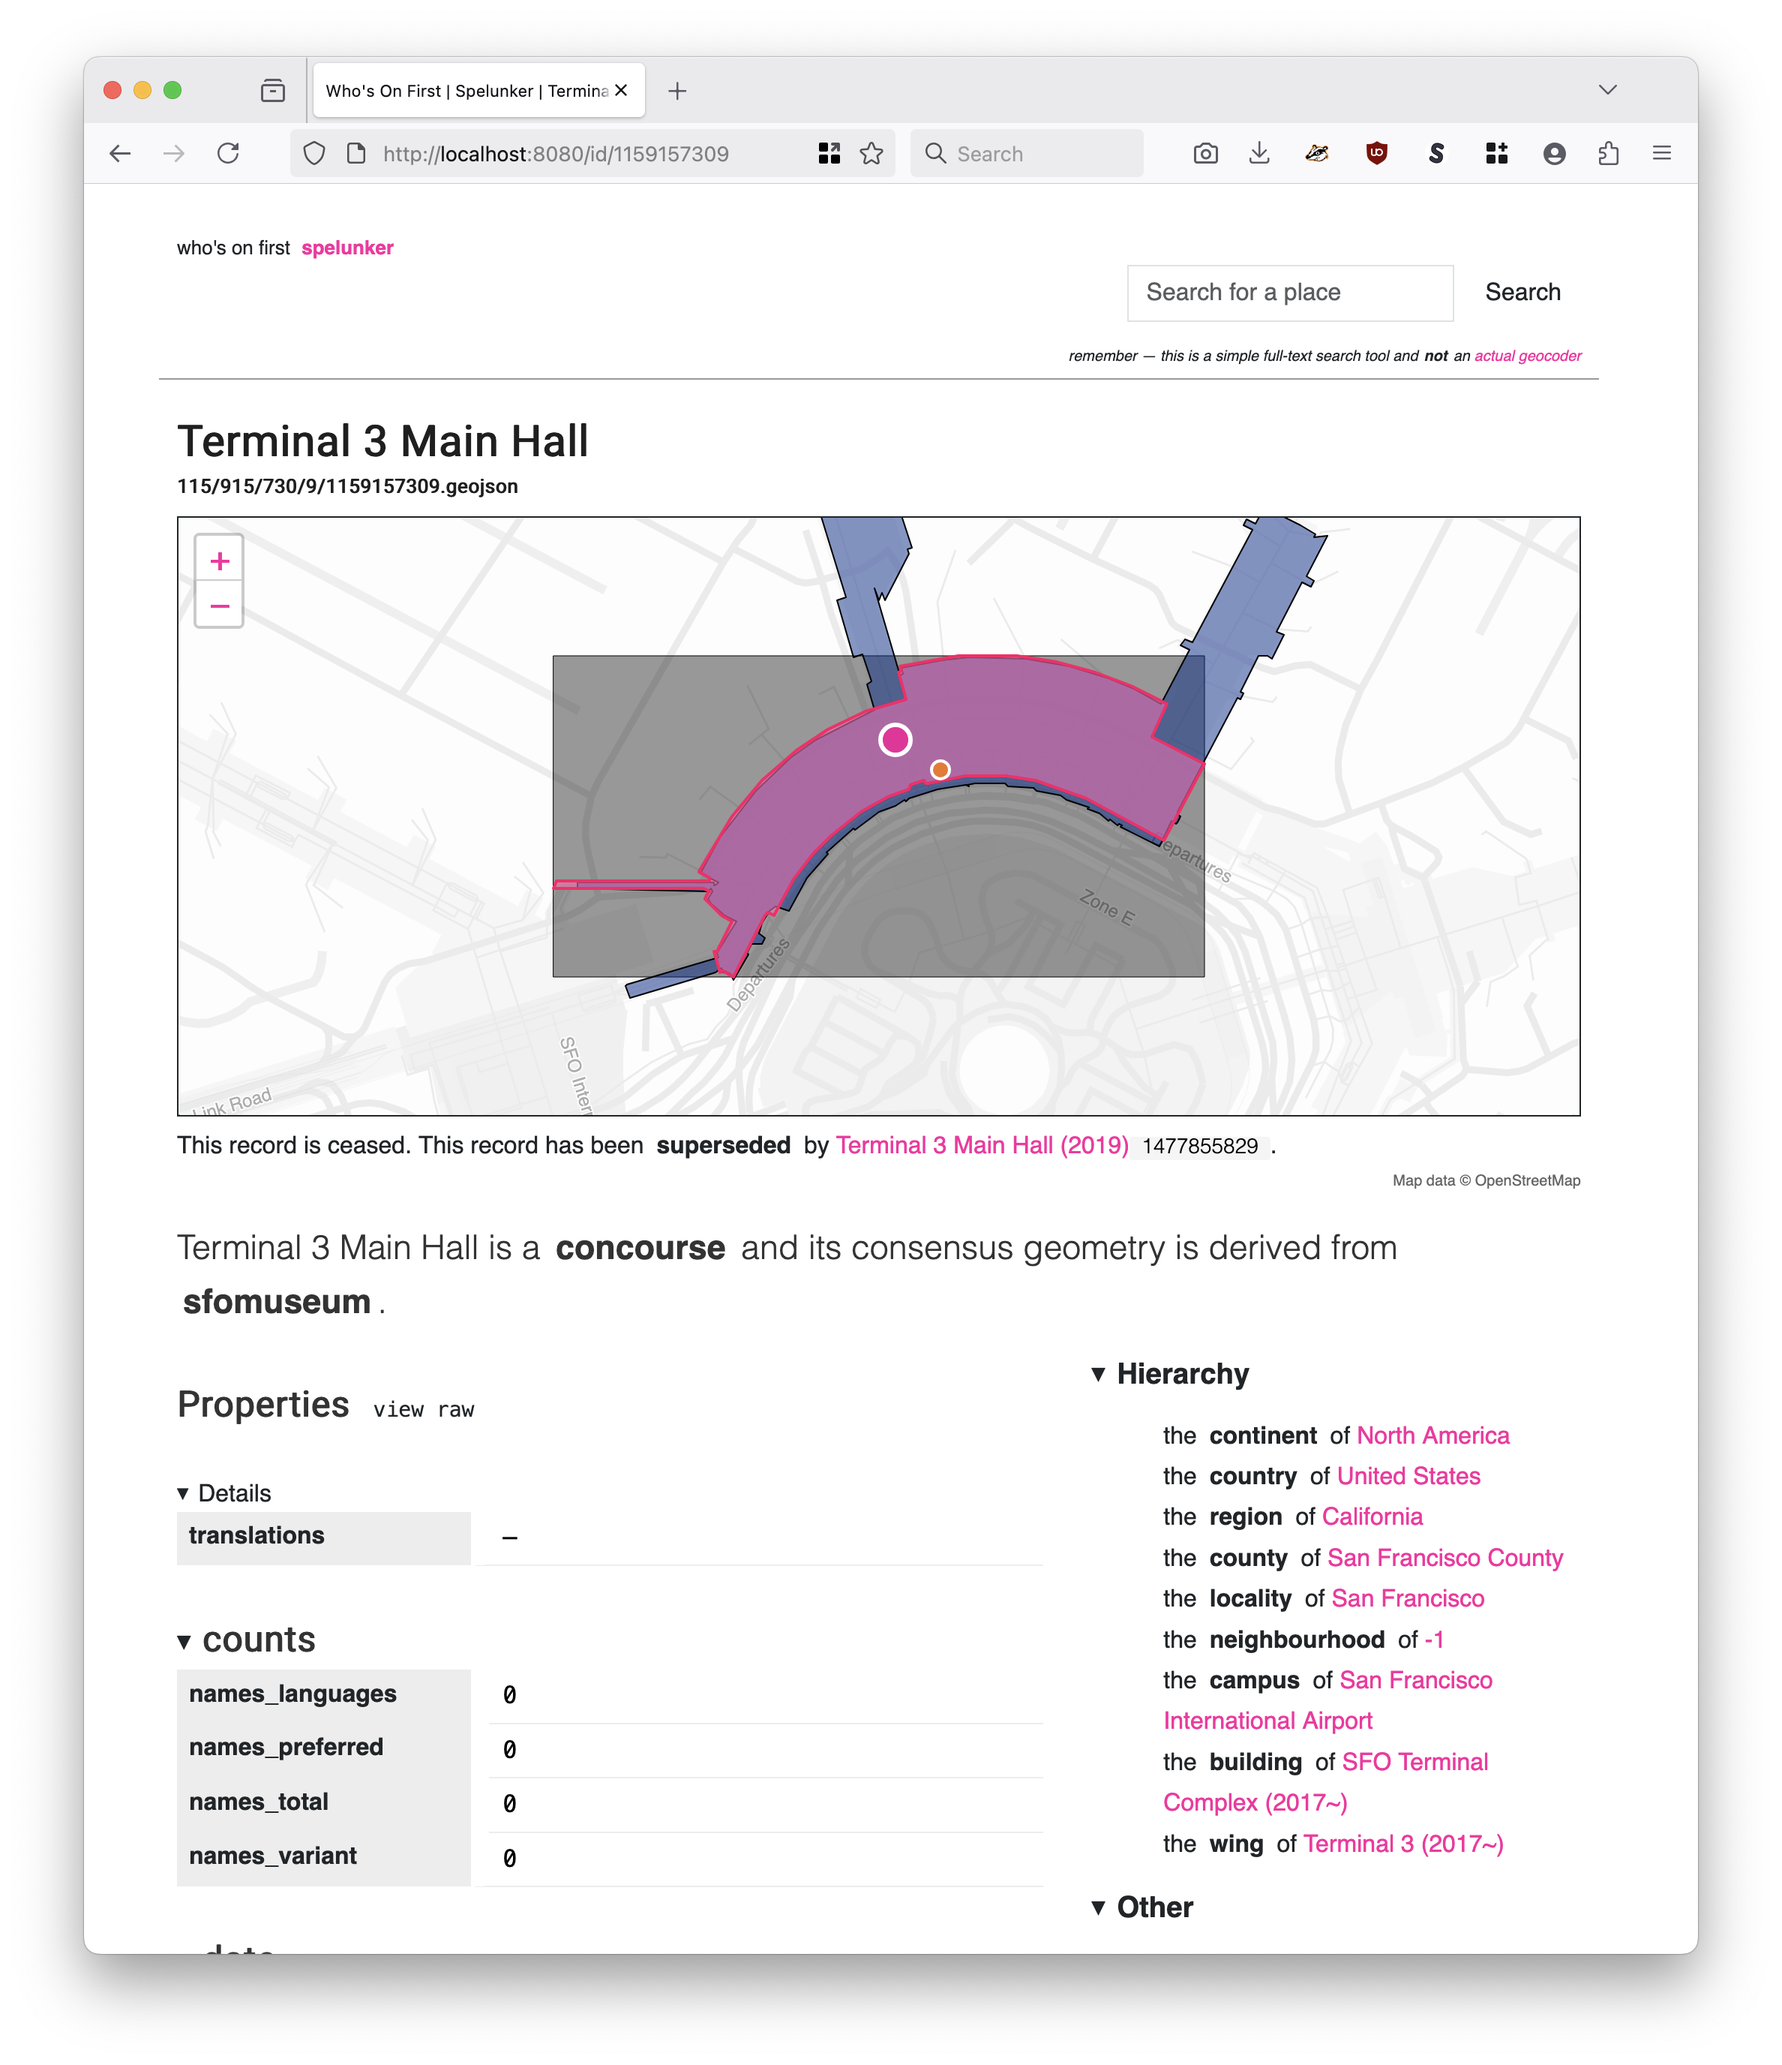
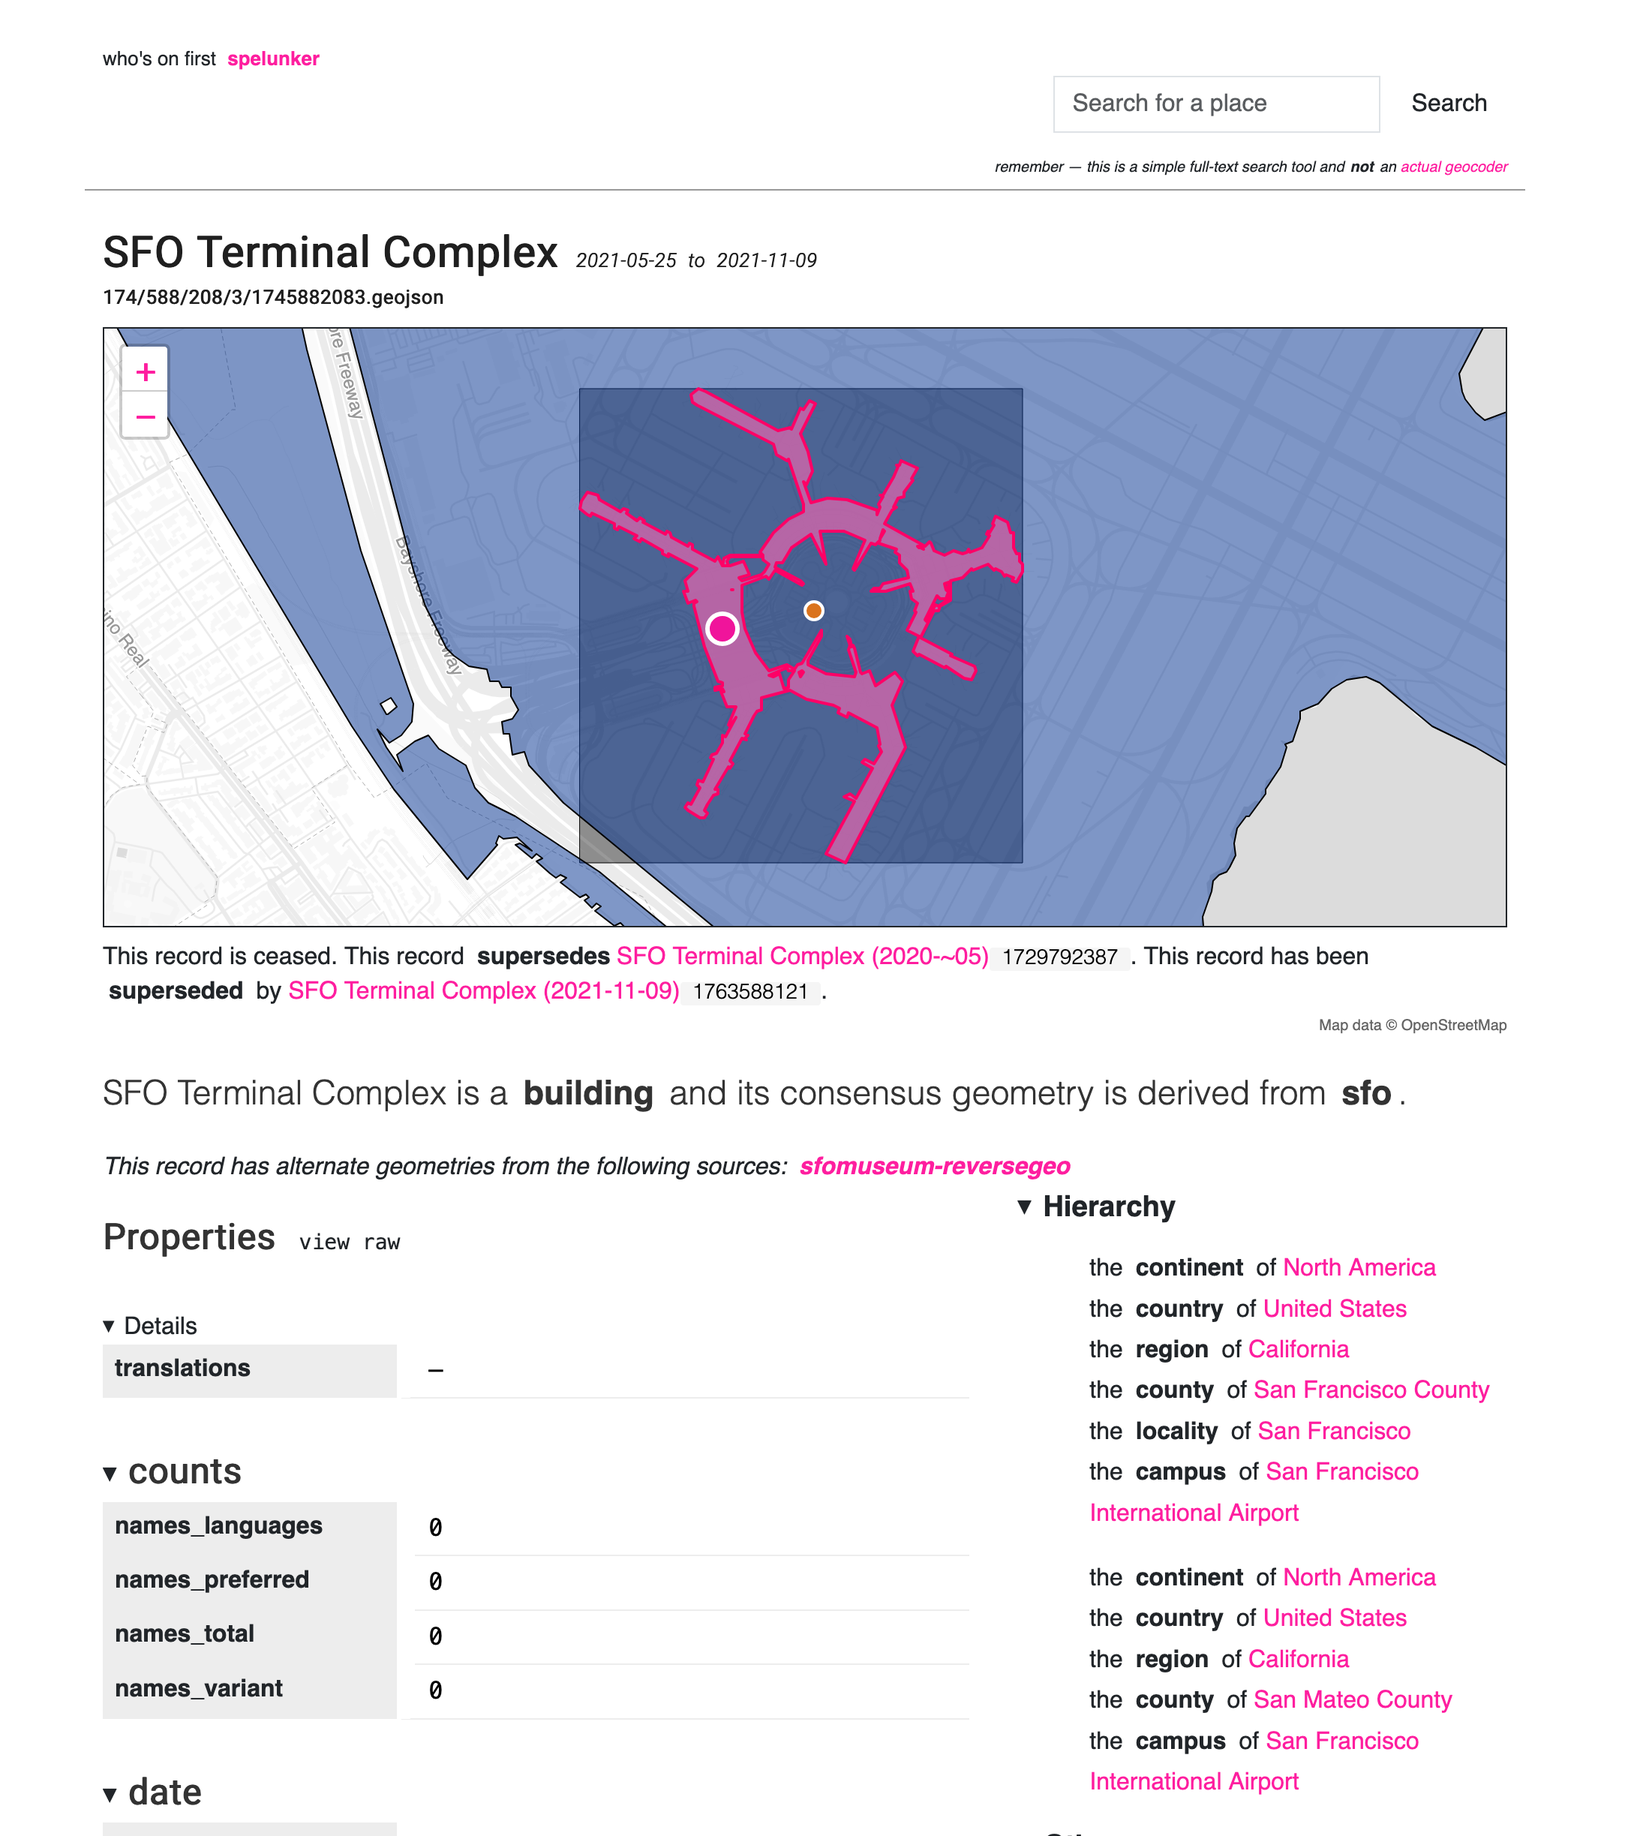
Update to reflect template changes in `whosonfirst/go-whosonfirst-spelunker-httpd` v0.0.20 (#54)
* snapshot: start blocking out spelunker tool

* update vendor deps

* snapshot: prove that the spelunker hooks work

* update vendor deps

* update vendor deps; docs

* improved docs

* notes about protomaps api

* update to reflect changes to spelunker templates

---------

diff --git a/vendor/github.com/whosonfirst/go-whosonfirst-spelunker-httpd/templates/html/inc_places.html b/vendor/github.com/whosonfirst/go-whosonfirst-spelunker-httpd/templates/html/inc_places.html
@@ -29,7 +29,12 @@
 		</div>
 		<div style="font-size:small;margin-top:.3rem;">
 		    <div style="font-style:italic;">This record is included because its <code>wof:id</code> value matches your query string.</div>
-		    <div><span class="hey-look">{{ .Feature.Repo }}</span>/{{ .Feature.Path }}</div>
+		    <div>Repo <span class="hey-look">{{ .Feature.Repo }}</span>/{{ .Feature.Path }}</div>
+
+		    <div>ID <span class="hey-look">{{ .Feature.Id }}</span>{{ if gt (len .Feature.Supersedes) 0 }} Supersedes <span class="hey-look">{{ range $s_idx, $id := .Feature.Supersedes }}<a href="/id/{{ $id }}">{{ $id }}</a>{{ end }}</span>{{ end }}{{ if gt (len .Feature.SupersededBy) 0 }} Superseded by <span class="hey-look">{{ range $s_idx, $id := .Feature.SupersededBy }}<a href="/id/{{ $id }}">{{ $id }}</a>{{ end }}</span>{{ end }}</div>
+		    
+		    <div>Inception <span class="hey-look">{{ if eq .Feature.Inception.String "" }}unknown{{ else }}{{ .Feature.Inception }}{{ end }}</span> Cessation <span class="hey-look">{{ if eq .Feature.Cessation.String "" }}unknown{{ else }}{{ .Feature.Cessation }}{{ end }}</span></div>
+		    
 		    <div>It was last modified <span class="hey-look">{{ FormatUnixTime .Feature.LastModified "January 02, 2006" }}</span>.{{ if eq .Feature.IsDeprecated.Flag 1 }} <span class="hey-look deprecated">This record is deprecated.</span>{{ end }}</div>
 		</div>
 		
@@ -38,11 +43,17 @@
 	    {{ range $idx, $spr := .Places -}}
 	    <li class="spr-place" data-id="{{ $spr.Id }}" data-latitude="{{ $spr.Latitude }}" data-longitude="{{ $spr.Longitude }}" style="margin-bottom:.5rem;">
 		<div>
-		    <a href="/id/{{ $spr.Id }}" class="wof-place-name hey-look">{{ $spr.Name }}</a> &#8212; <small>this is <span class="hey-look">{{ IsAPlacetype $spr.Placetype }}</span></small>
+		    <a href="/id/{{ $spr.Id }}" class="wof-place-name hey-look">{{ $spr.Name }}</a> &#8212; <small>this is <span class="hey-look">{{ IsAPlacetype $spr.Placetype }}</span> {{ if eq $spr.IsCurrent.StringFlag "1" }}marked as <span class="hey-look">current</span>{{ end }}</small>
 		</div>
 		<div style="font-size:small;margin-top:.3rem;">
-		    <div><span class="hey-look">{{ $spr.Repo }}</span>/{{ $spr.Path }}</div>
+		    <div>Repo <span class="hey-look">{{ $spr.Repo }}</span>/{{ $spr.Path }}</div>
+		    
+		    <div>ID <span class="hey-look">{{ $spr.Id }}</span>{{ if gt (len $spr.Supersedes) 0 }} Supersedes <span class="hey-look hey-look-list">{{ range $s_idx, $id := $spr.Supersedes }}<a href="/id/{{ $id }}" class="hey-look-list-item">{{ $id }}</a>{{ end }}</span>{{ end }}{{ if gt (len $spr.SupersededBy) 0 }} Superseded by <span class="hey-look" class="hey-look-list">{{ range $s_idx, $id := $spr.SupersededBy }}<a href="/id/{{ $id }}" class="hey-look-list-item">{{ $id }}</a>{{ end }}</span>{{ end }}</div>
+		    
+		    <div>Inception <span class="hey-look">{{ if eq $spr.Inception.String "" }}unknown{{ else }}{{ $spr.Inception }}{{ end }}</span> Cessation <span class="hey-look">{{ if eq $spr.Cessation.String "" }}unknown{{ else }}{{ $spr.Cessation }}{{ end }}</span></div>
+		    
 		    <div>It was last modified <span class="hey-look">{{ FormatUnixTime $spr.LastModified "January 02, 2006" }}</span>.{{ if eq $spr.IsDeprecated.Flag 1 }} <span class="hey-look deprecated">This record is deprecated.</span>{{ end }}</div>
+		    
 		</div>
 	    </li>
 	    {{ end -}}

diff --git a/vendor/github.com/whosonfirst/go-whosonfirst-spelunker-httpd/templates/html/id.html b/vendor/github.com/whosonfirst/go-whosonfirst-spelunker-httpd/templates/html/id.html
@@ -3,6 +3,7 @@
 
 <h2>
     {{ GjsonGet .Properties "wof:name" }}
+    <small class="header-dates"><span class="hey-look">{{ if eq (GjsonGet .Properties "edtf:inception") "" }}unknown{{ else }}{{ GjsonGet .Properties "edtf:inception" }}{{ end }}</span> to <span class="hey-look">{{ if eq (GjsonGet .Properties "edtf:cessation") "" }}unknown{{ else }}{{ GjsonGet .Properties "edtf:cessation" }}{{ end }}</span></small>
     <small class="rel-path">{{ .RelPath }}</small>
 </h2>
 

diff --git a/vendor/github.com/whosonfirst/go-whosonfirst-spelunker-httpd/static/css/whosonfirst.spelunker.css b/vendor/github.com/whosonfirst/go-whosonfirst-spelunker-httpd/static/css/whosonfirst.spelunker.css
@@ -205,6 +205,24 @@ q {
 	margin-right:.25rem;	
 }
 
+.header-dates {
+	font-size: small !important;
+	font-style: italic;
+}
+
+.header-dates .hey-look {
+	font-weight: 700 !important;
+}
+
+
+.hey-look-list .hey-look-list-item:after {
+	content: ", ";
+}
+
+.hey-look-list .hey-look-list-item:last-child:after {
+	content: "";
+}
+
 #nav {
     border-bottom:1px solid #999;
     margin-bottom:1em;

diff --git a/spelunker/README.md b/spelunker/README.md
@@ -68,6 +68,6 @@ Once you open your web browser to `http://localhost:8080` you should see stuff l
 
 ![](docs/wof-cli-spelunker-launch.png)
 
-![](docs/wof-cli-spelunker-descendants.png)
+![](docs/wof-cli-spelunker-search.png)
 
 ![](docs/wof-cli-spelunker-record.png)
